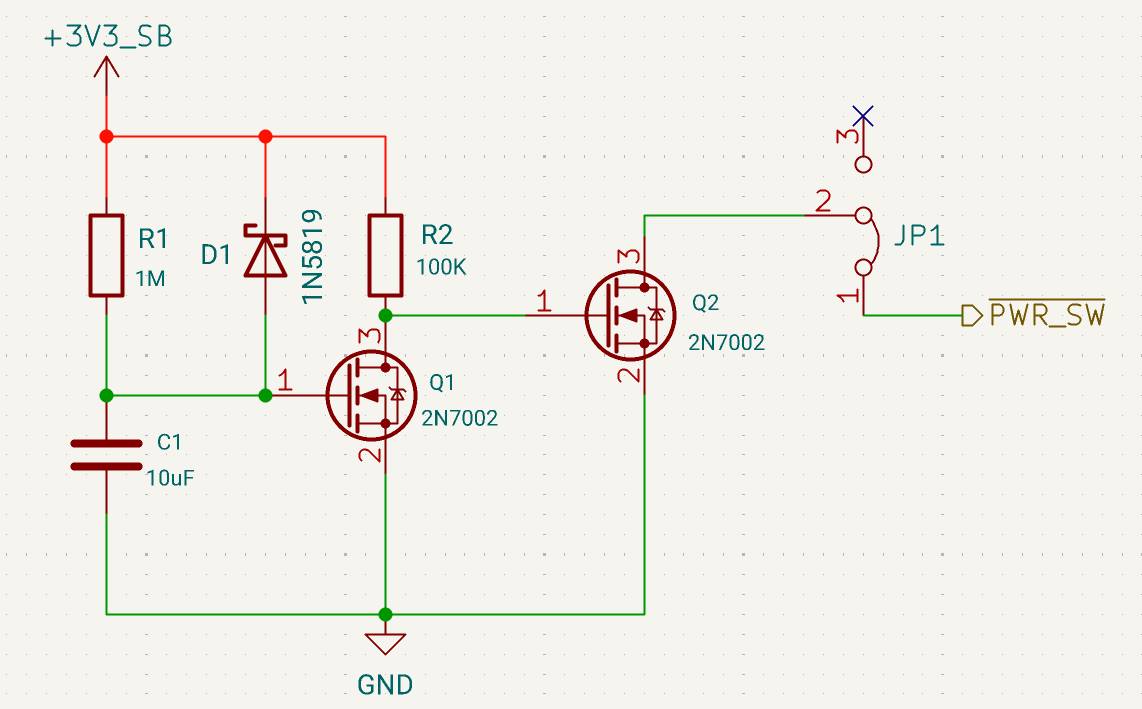
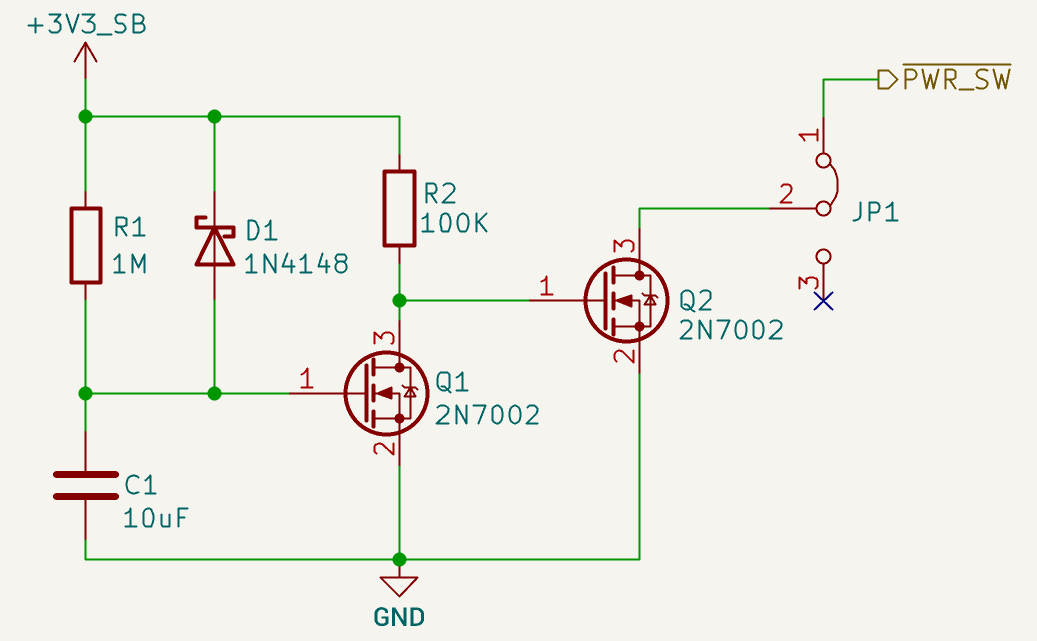
update mu ultra docs

diff --git a/docs/content/mu_ultra_edition/migration_guide_mu_to_mu_ultra.md b/docs/content/mu_ultra_edition/migration_guide_mu_to_mu_ultra.md
@@ -1,6 +1,8 @@
 # Migration Guide from LattePanda Mu to LattePanda Mu Ultra
 
-This guide is written for existing LattePanda Mu users who are evaluating migration to the LattePanda Mu Ultra AI compute module.
+This guide is intended for users who are migrating an existing LattePanda Mu carrier board design to LattePanda Mu Ultra, or designing a carrier board that supports both compute modules.
+
+If you are designing a new carrier board exclusively for LattePanda Mu Ultra and do not need compatibility with LattePanda Mu, you may skip this chapter.
 
 ## Overview
 
@@ -179,6 +181,8 @@ The input voltage range is the same, but the Mu Ultra consumes significantly mor
 | CLKREQ Pins Exposed        | 2 (REFCLK_REQ3-4)    | All 5 (REFCLK_REQ0–4)       |
 | PCIe Device Without CLKREQ | Does not block sleep | Blocks Modern Standby entry |
 
+#### PCIe CLKREQ Requirements
+
 On the Mu Ultra, **every PCIe device must have its CLKREQ pin connected** to the corresponding REFCLK_REQ pin on the compute module. Entering Modern Standby requires PCIe peripherals to use CLKREQ to trigger their low-power state. A PCIe device **without CLKREQ connected, or with CLKREQ permanently pulled low by a pull-down resistor, will prevent the system from entering Modern Standby** (the screen is off, but the processor and fan continue running).
 
 !!! note
@@ -195,7 +199,9 @@ Note that the three new CLKREQ pins on the Mu Ultra (REFCLK_REQ0-2) sit where th
 
 If your carrier board uses the Mu's SMBus, those connections must be removed — the SMBus is no longer available on the Mu Ultra.
 
-Related status-pin change: pin 5 (PSON on Mu) is now SLP_S0_S3. It keeps the same position and 3.3V level, but its state semantics follow Modern Standby, and a dedicated Modern Standby blink output (pin 134, GPP_B07) is available in the default BIOS.
+#### Status Pin Behavior
+
+Pin 5 (PSON on Mu) is now SLP_S0_S3. It keeps the same position and 3.3V level, but its state semantics follow Modern Standby, and a dedicated Modern Standby blink output (pin 134, GPP_B07) is available in the default BIOS.
 
 - **LattePanda Mu:**
 

diff --git a/docs/content/mu_ultra_edition/design_guide_pwctl_stat.md b/docs/content/mu_ultra_edition/design_guide_pwctl_stat.md
@@ -8,6 +8,8 @@ LattePanda Mu Ultra x86 compute module provides two status output pins, `SLP_S0_
 
     The processor of the LattePanda Mu Ultra does not support the traditional S3 sleep state — it supports **Modern Standby** only. As a result, the status pin behavior differs from the LattePanda Mu (which provides `PSON` on pin 5). On the Mu Ultra, pin 5 is `SLP_S0_S3`, and both status pins output HIGH in **both** the Working and Modern Standby states.
 
+    For a detailed comparison of the status-pin behavior, see [Status Pin Behavior](migration_guide_mu_to_mu_ultra.md#status-pin-behavior) in the migration guide.
+
 ### Pin Definition
 
 | Pin Name  | Pin Number | Note                                                              |

diff --git a/docs/content/mu_ultra_edition/introduction.md b/docs/content/mu_ultra_edition/introduction.md
@@ -28,6 +28,8 @@ Powered by the Intel Core Ultra 200V series (Lunar Lake) processor, LattePanda M
 
 - **[📍 Pinout Documentation](https://github.com/LattePandaTeam/LattePanda-Mu-Ultra/tree/main/Electricals/Pinouts)** — Detailed pin definitions for the LattePanda Mu Ultra edge connector.
 
+- **[🔄 Carrier Board Migration Guide](./migration_guide_mu_to_mu_ultra.md)** — Review compatibility and required design changes when migrating from LattePanda Mu.
+
 - **[📘 Carrier Board Design Guide](./design_guide_preface.md)** —  Guidelines for carrier board design and electrical characteristic requirements.
 
 - **:simple-github: [LattePanda Mu Ultra Github Repository](https://github.com/LattePandaTeam/LattePanda-Mu-Ultra)**
